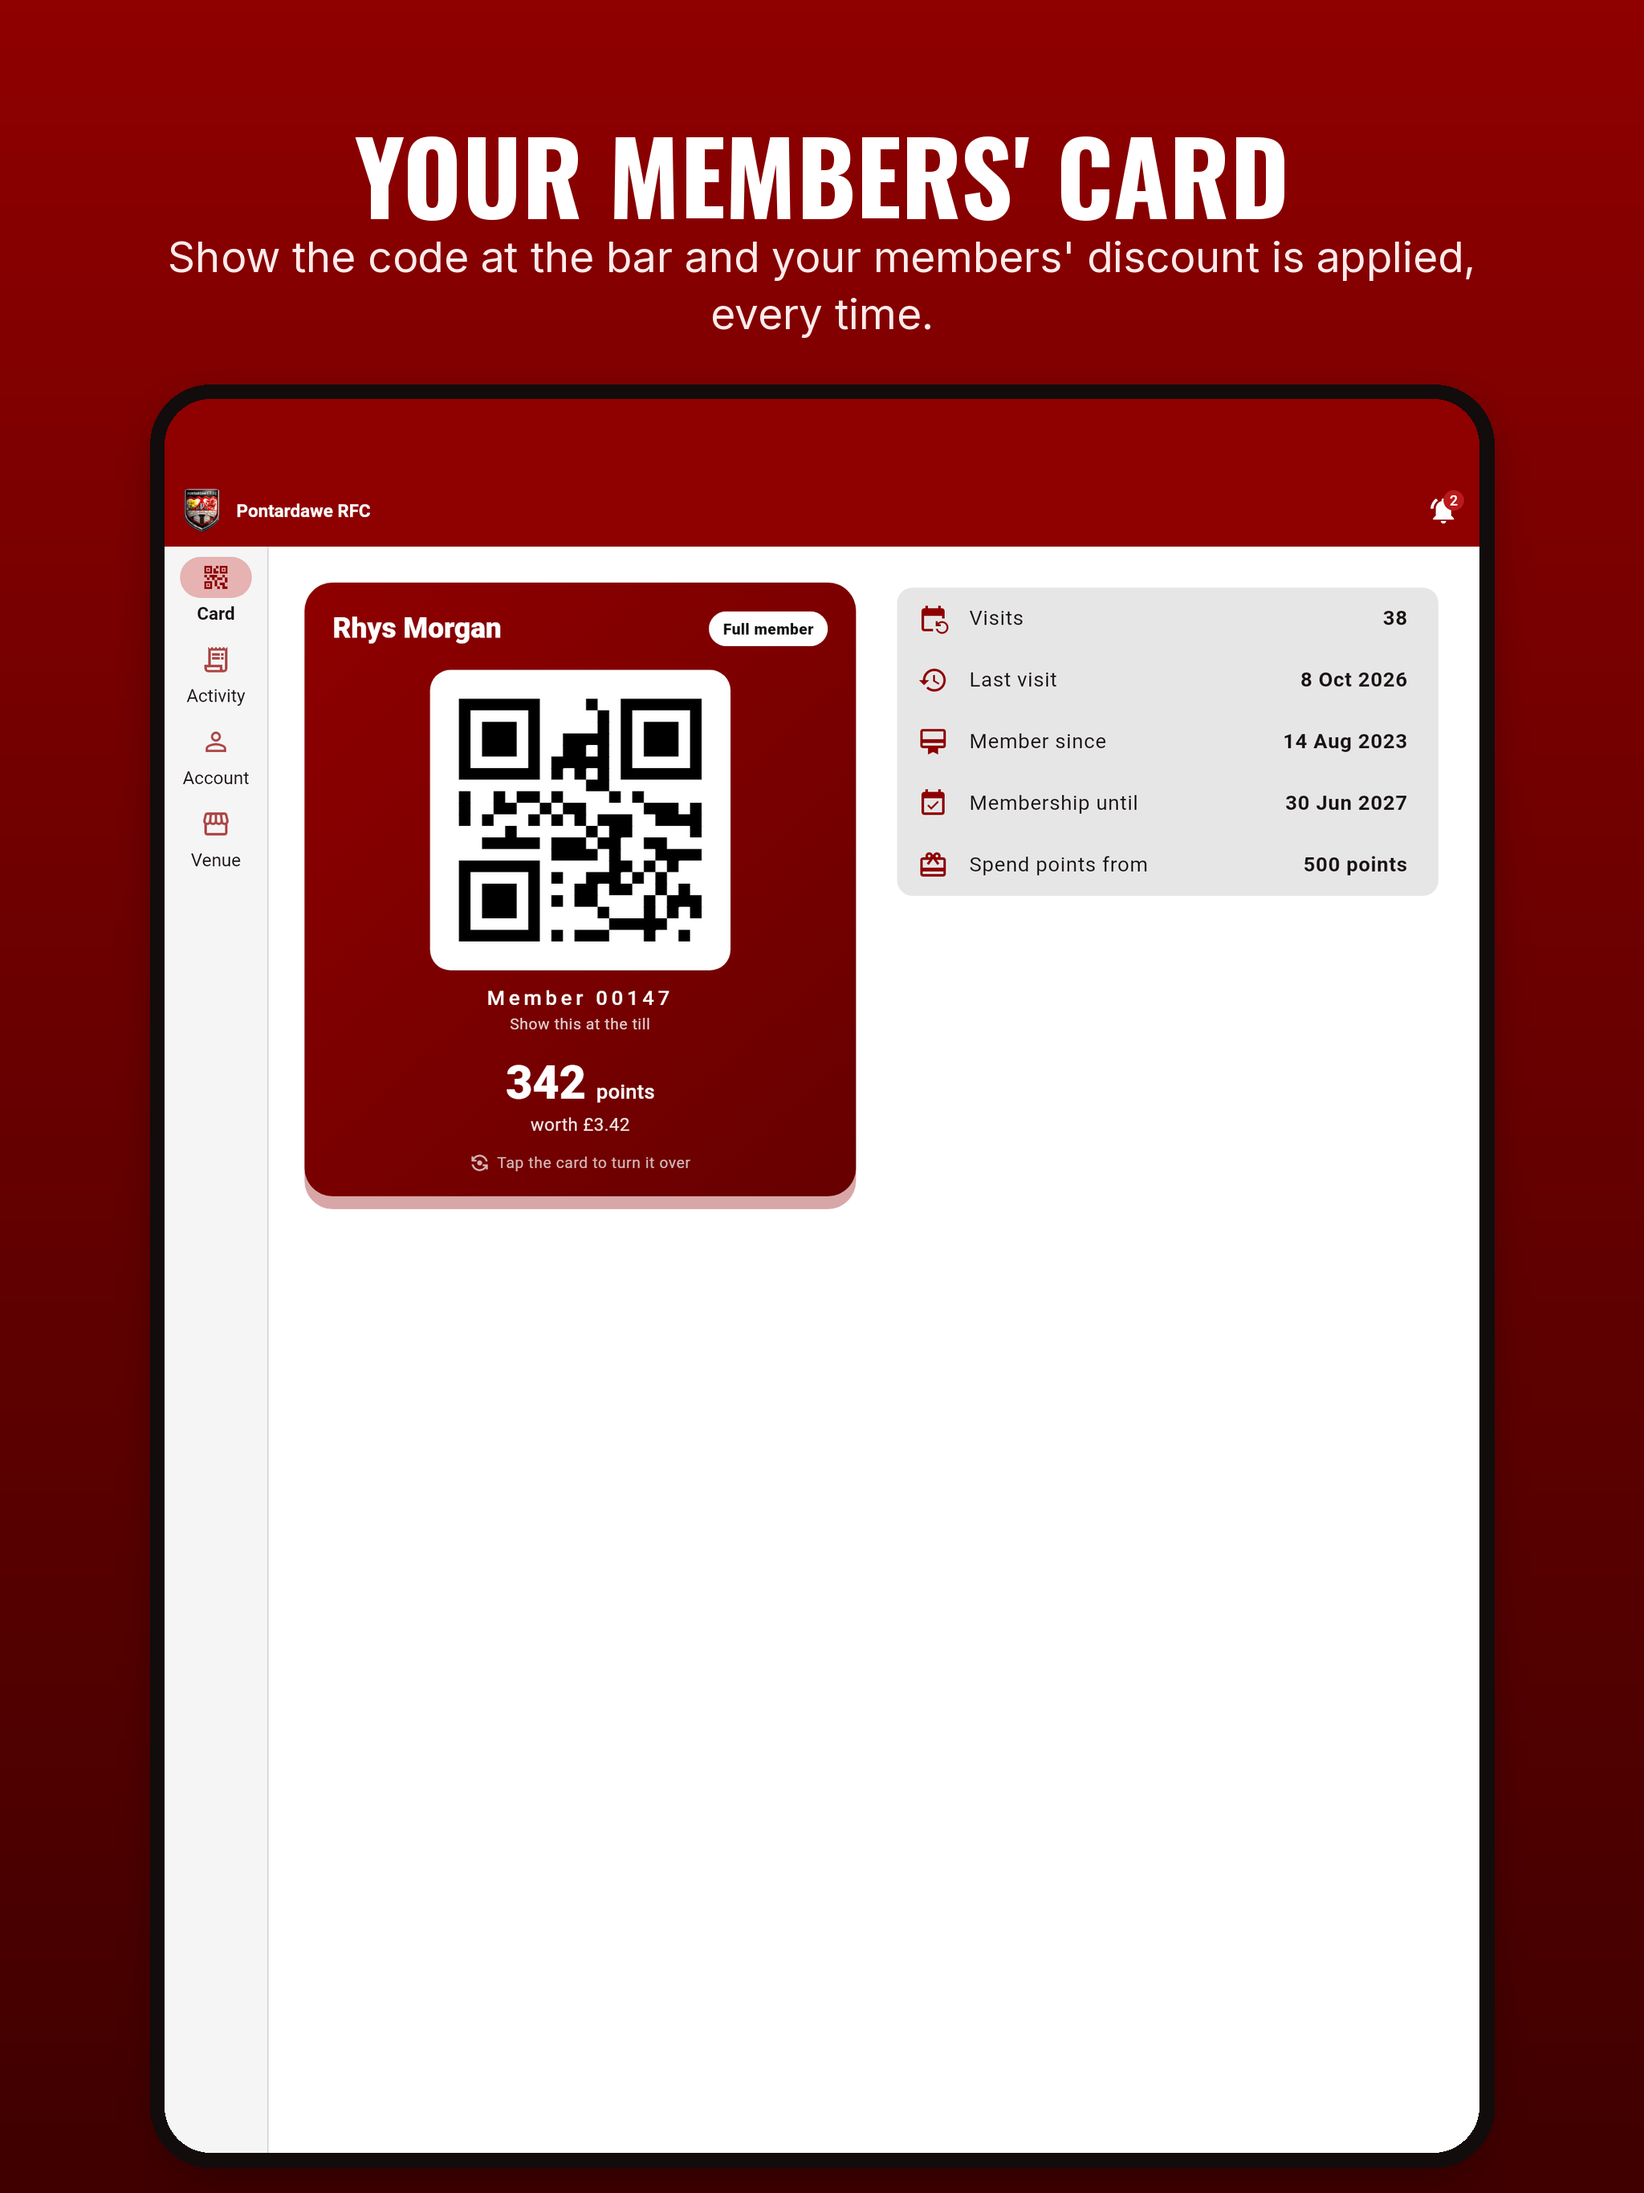
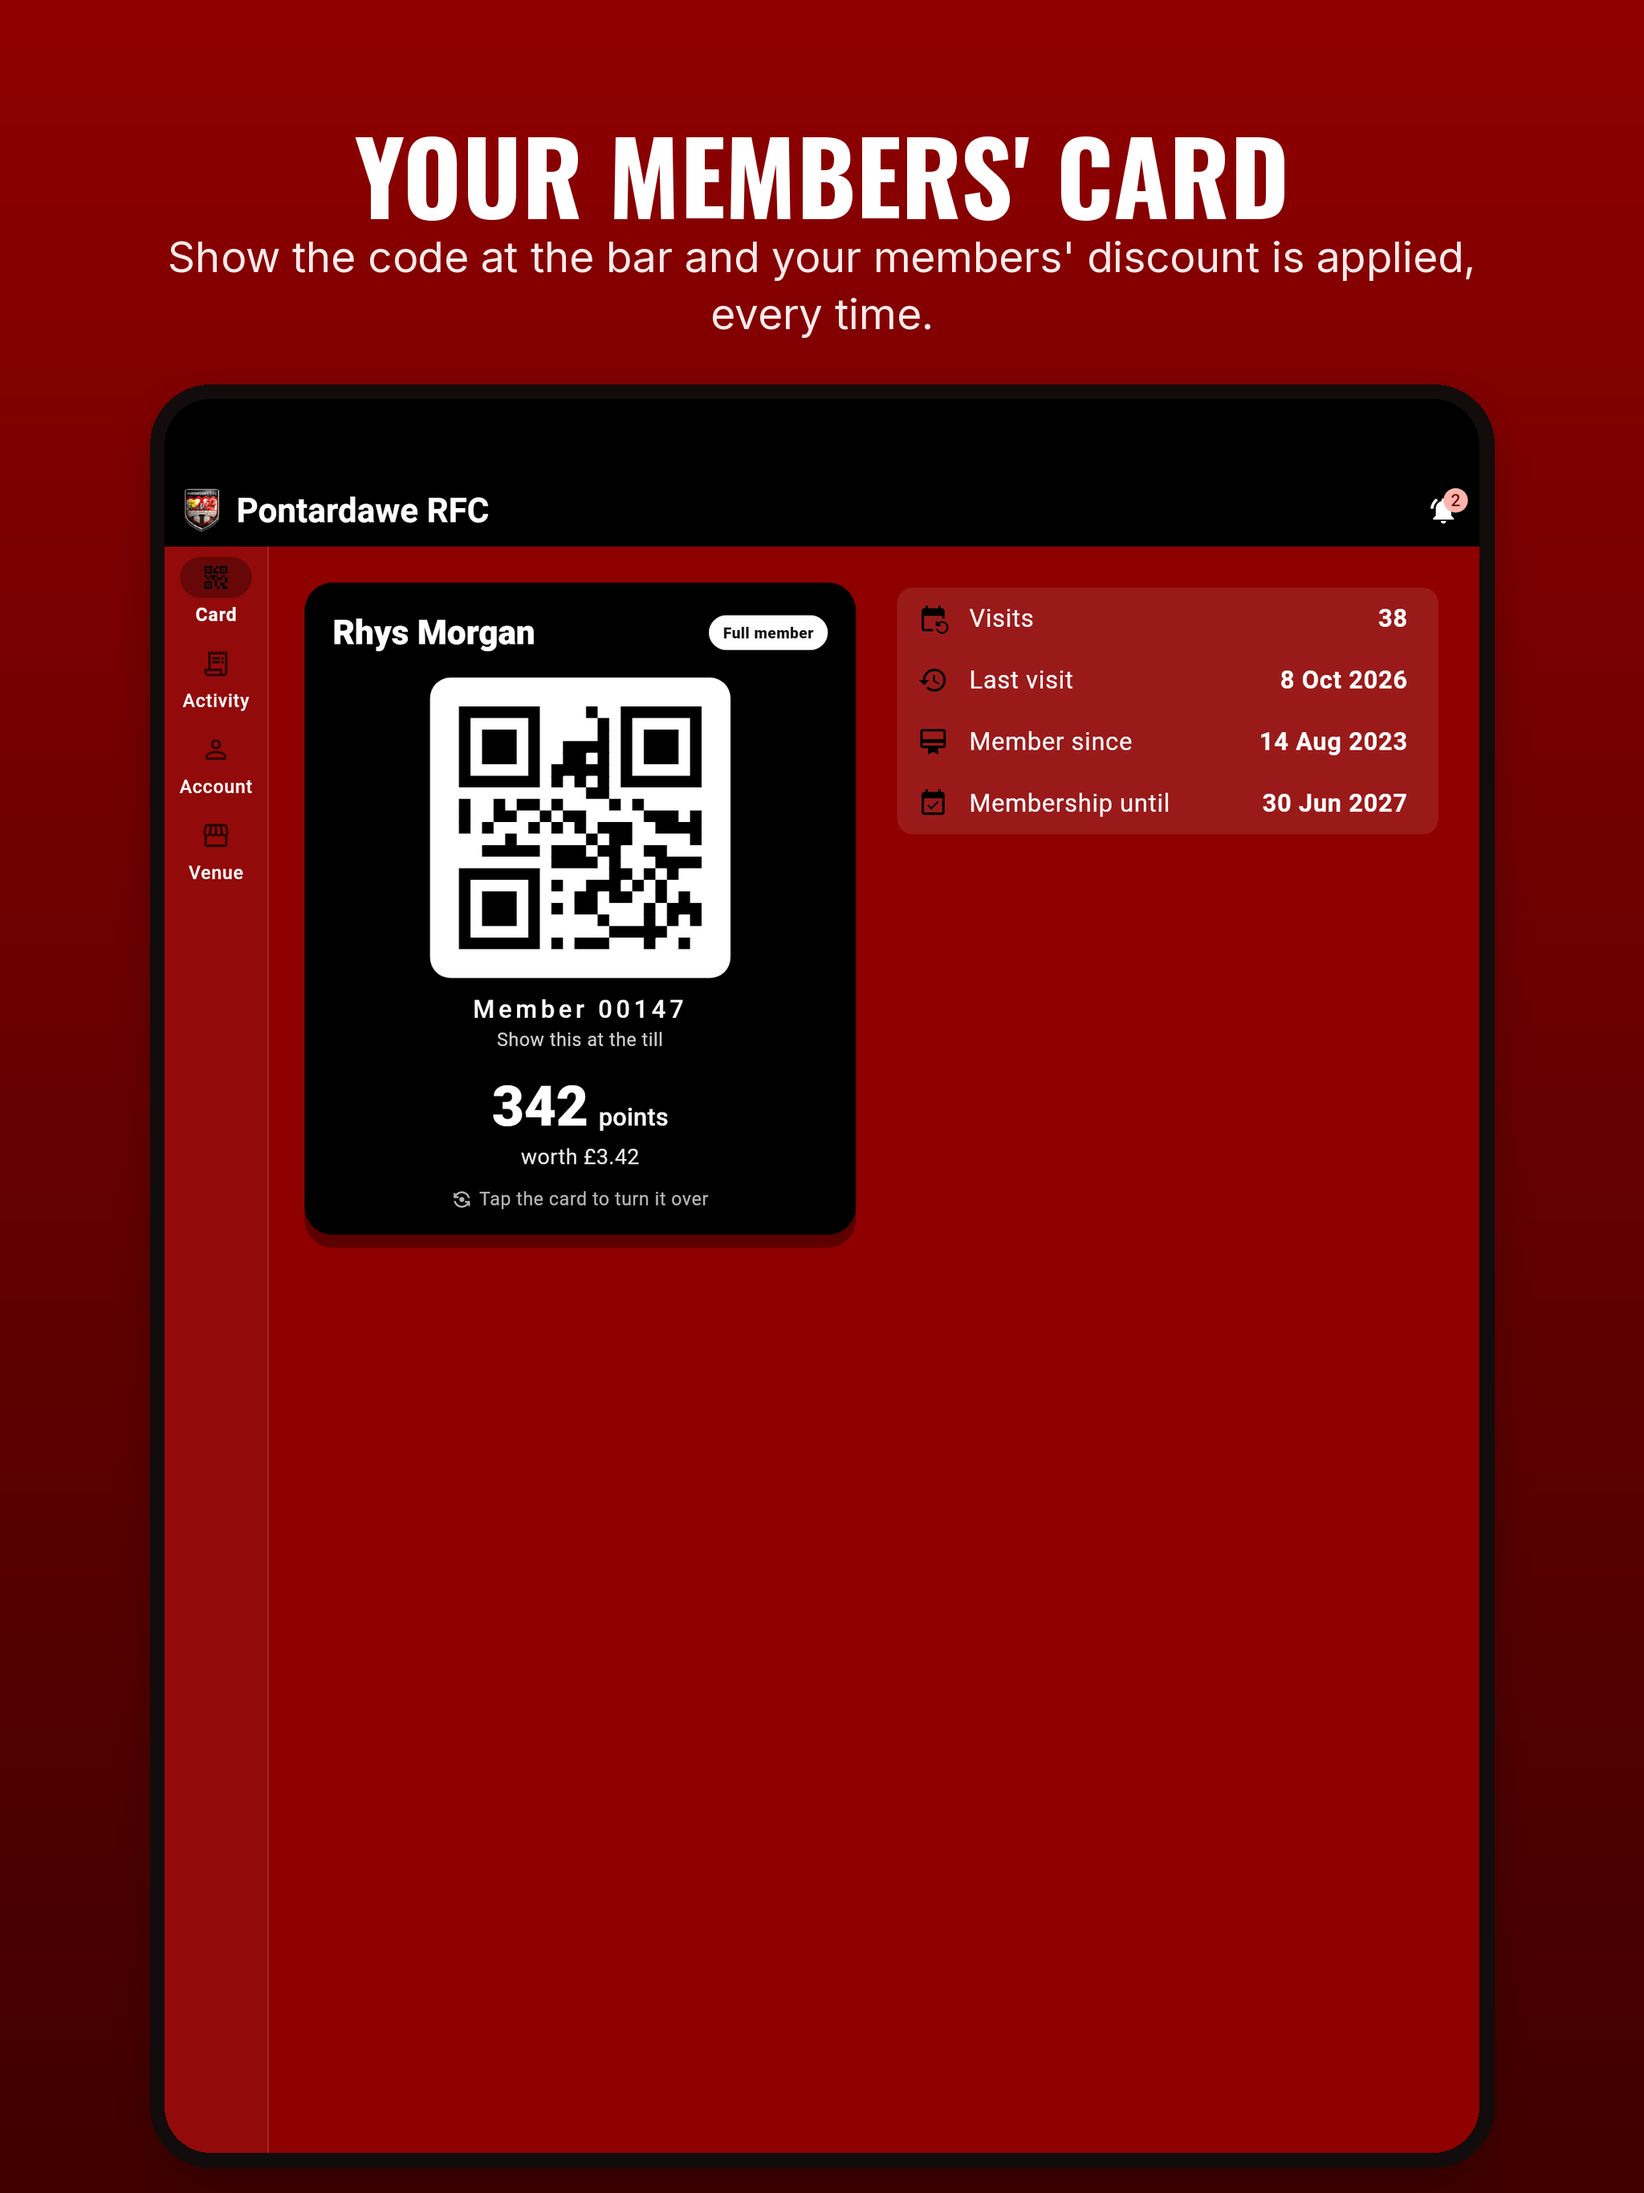
Pontardawe RFC screenshots in the club's live branding; the venue font scale now takes
- make_store_screenshots.py saves the live /loyalty/v1/app/<slug> answer and
  the screenshots draw with it (black on club red, 1.2 text, code sign-in)
- brand.dart: the text theme had no sizes yet when the venue's font scale was
  applied, an assertion in debug and nothing at all in release. Sizes first.

Claude-Session: https://claude.ai/code/session_01Et8v13o3QH5uAwQPMG6b7v

diff --git a/vesopa_loyalty/lib/data/brand.dart b/vesopa_loyalty/lib/data/brand.dart
@@ -186,7 +186,12 @@ class Brand {
     final base = ThemeData(colorScheme: scheme, useMaterial3: true, scaffoldBackgroundColor: background);
     final bodyFamily = bodyFont?.family;
     final headFamily = headingFont?.family ?? bodyFamily;
-    var textTheme = base.textTheme
+    // ThemeData's own text styles have colours but no sizes yet (Flutter adds
+    // them later, in Theme.of), and a size factor on a style with no size is
+    // an assertion in debug and silently nothing in release: the venue's
+    // font scale never took. The sizes first, then the scale.
+    var textTheme = base.typography.englishLike
+        .merge(base.textTheme)
         .apply(fontFamily: bodyFamily, bodyColor: text, displayColor: text, fontSizeFactor: fontScale);
     if (headFamily != null) {
       TextStyle? h(TextStyle? s) => s?.copyWith(fontFamily: headFamily);

diff --git a/vesopa_loyalty/screenshots/store_screenshots_test.dart b/vesopa_loyalty/screenshots/store_screenshots_test.dart
@@ -49,7 +49,15 @@ DateTime _daysAgo(int d, [int hour = 19]) {
 
 String _iso(DateTime d) => d.toUtc().toIso8601String();
 
+/// The venue's look as the back office has it: screenshots/brand.json is the
+/// live `/loyalty/v1/app/<slug>` answer, saved by make_store_screenshots.py.
+/// Without it (offline), a look made from venue.json's colours.
 Map<String, dynamic> _brand() {
+  final live = File('screenshots/brand.json');
+  if (live.existsSync()) {
+    final b = jsonDecode(live.readAsStringSync()) as Map<String, dynamic>;
+    return {...b, 'logo': _logoUrl, 'icon': _logoUrl, 'hero': null, 'push': {'web': null, 'windows': false}};
+  }
   final c = (_venue['colours'] as Map).cast<String, dynamic>();
   return {
     'slug': _slug,

diff --git a/vesopa_loyalty/tool/make_store_screenshots.py b/vesopa_loyalty/tool/make_store_screenshots.py
@@ -21,6 +21,7 @@ import os
 import shutil
 import subprocess
 import sys
+import urllib.request
 from pathlib import Path
 
 from PIL import Image, ImageDraw, ImageFilter, ImageFont
@@ -28,6 +29,7 @@ from PIL import Image, ImageDraw, ImageFilter, ImageFont
 HERE = Path(__file__).resolve().parents[1]  # vesopa_loyalty
 REPO = HERE.parent
 
+LIVE = "https://loyalty.vesopa.com"
 SIZES = {"iphone-6.9": (1290, 2796), "ipad-13": (2048, 2732)}
 FONT_BOLD = REPO / "vesopa_server" / "public" / "assets" / "fonts" / "oswald" / "oswald-700.ttf"
 FONT_TEXT = REPO / "vesopa_server" / "public" / "assets" / "fonts" / "inter" / "inter-400.ttf"
@@ -118,6 +120,13 @@ def main():
     (app / "screenshots").mkdir(exist_ok=True)
     shutil.copy2(HERE / "screenshots" / "store_screenshots_test.dart", app / "screenshots")
     shutil.copy2(venue_dir / "venue.json", app / "screenshots" / "venue.json")
+    # The venue's look as members see it today, from the back office.
+    try:
+        with urllib.request.urlopen(f"{LIVE}/loyalty/v1/app/{v['slug']}", timeout=20) as res:
+            (app / "screenshots" / "brand.json").write_bytes(res.read())
+        print(f"  branding from {LIVE}")
+    except OSError as e:
+        print(f"! could not fetch the live branding ({e}); using venue.json's colours")
     raw = app / "build" / "screenshots" / "raw"
     shutil.rmtree(raw, ignore_errors=True)
 
